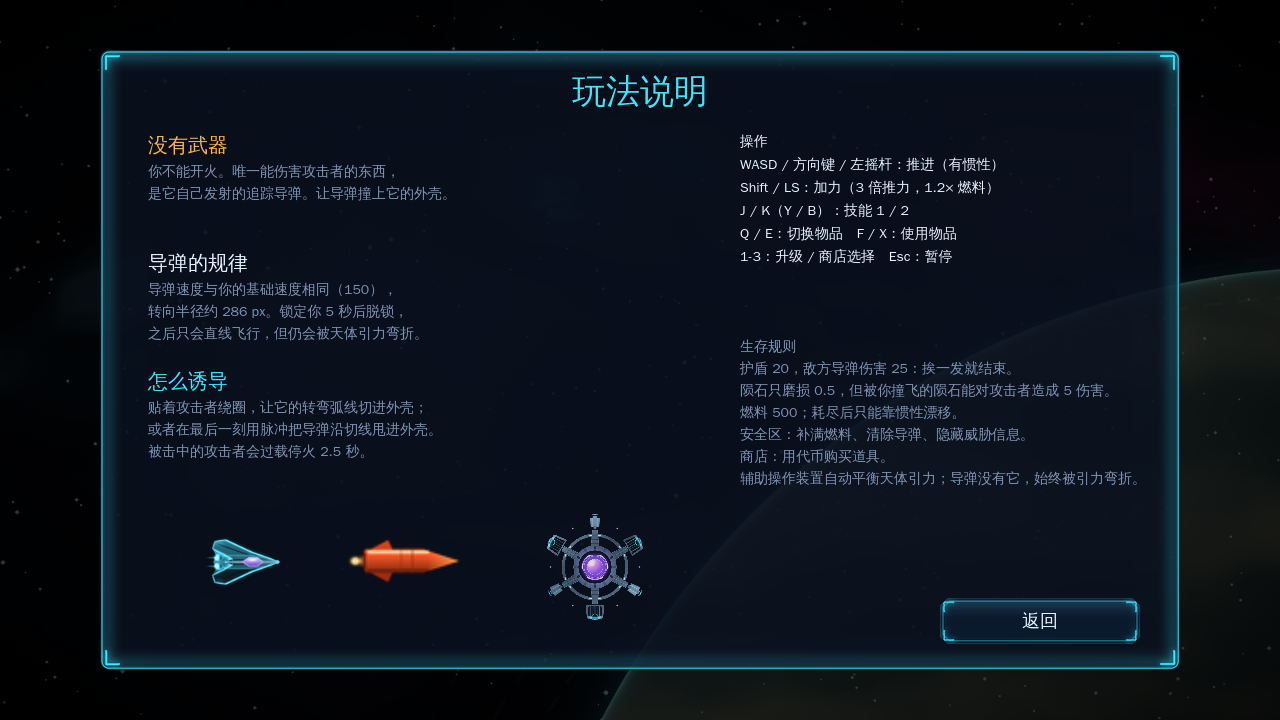
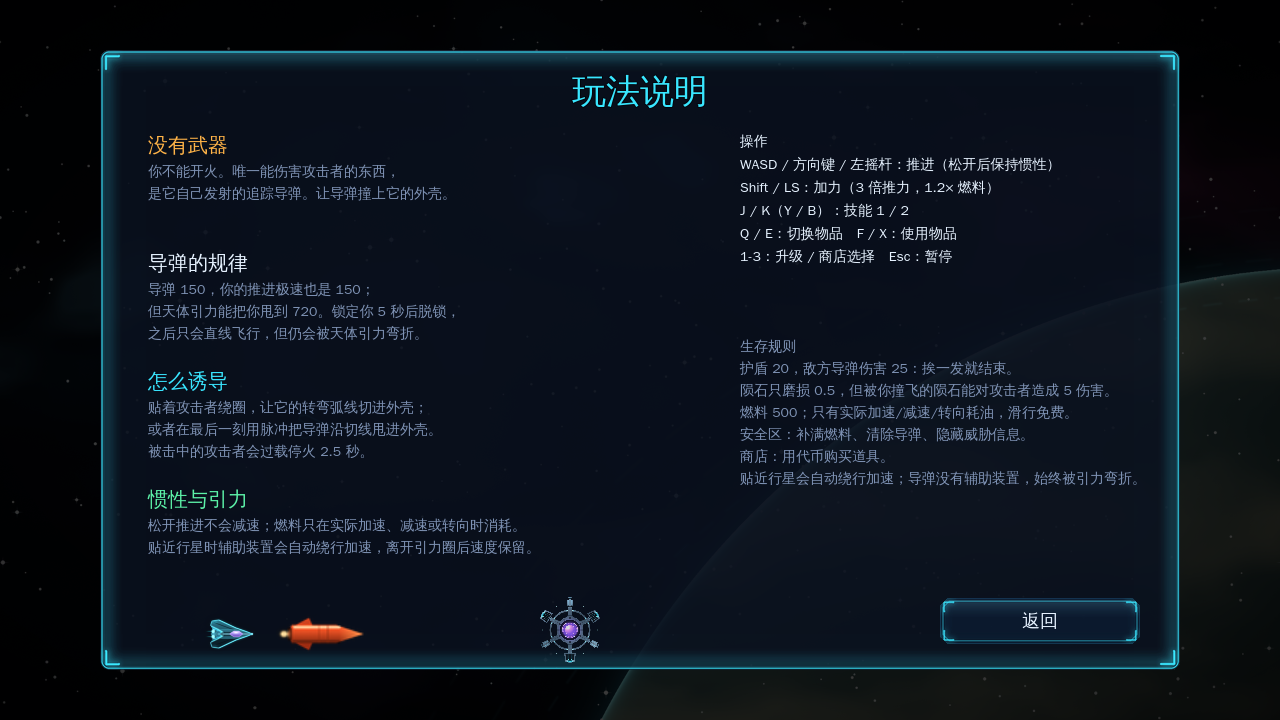
docs(1.0.5): 物理与生成规则、验证记录、截图与 OpenList 直链

diff --git a/README.md b/README.md
@@ -1,4 +1,4 @@
-# Escape Gravity · 1.0.4 发行版
+# Escape Gravity · 1.0.5 发行版
 
 > 2D 俯视角 · 物理驱动 · 无直接攻击的太空肉鸽
 >
@@ -14,6 +14,15 @@
 - 中文字体：WenQuanYi Zen Hei（随包分发，见许可）
 
 > **仓库状态**：本目录为本地 Git 仓库（`main`，未配置 remote，暂未发布）。`build/`、`dist/`、`keystore/` 与 `.godot/` 不入库；维护、构建与提交约定见 [`AGENTS.md`](AGENTS.md)。
+
+### 1.0.5 更新
+
+- **真惯性物理**：太空不再有阻力，松开推进后飞船保持当前速度；引擎只能把速度推到 **150**（加力 192），超过引擎极速后推进只用于转向/减速，惯性不会被压回。外部速度的安全上限为 **720**。
+- **燃料按实际 Δv 计**：只有真正改变速度（加速、减速、转向）时才耗油；到达极速后继续按住推进不耗燃料，滑行完全免费。
+- **环绕天体加速**：引力影响半径从 **2R 提高到 3R**，给切线掠过留出足够的弯折时间；贴近行星时辅助装置会沿切线自动绕行加速，离开引力圈后速度保留，可以被甩得比引擎极速快得多。HUD 新增速度读数（超过 192 变青、超过 400 变琥珀）。
+- **高速安全区停靠**：辅助装置的反推上限提高到 1400 px/s²；以 600~720 速度进入安全区时会自动刹停，停在 R280 圈内，而不是穿过去。只有明确把推进方向指向圈外时才会放手。
+- **生成间距修复**：安全区/商店按完整 R280 贴图、敌人按外壳半径、天体按表面 + 160px 留白做双向避让；路线预置的安全区/商店/敌人会为后续天体预留空间，天体也不会在玩家、安全区或敌人身上流式生成；敌人若被天体挤到会沿径向推出表面。
+- **路线落点更稳**：被天体挡住的安全区/商店/敌人会用 18 圈 × 24 方向的环形搜索重新落点，不再直接放弃在原来的错误位置。
 
 ### 1.0.4 更新
 
@@ -48,22 +57,24 @@
 
 | 文件 | 平台 | 大小 | SHA-256 |
 |---|---|---|---|
-| `dist/EscapeGravity-1.0.4-windows-x86_64.zip` | Windows 10/11 x64 | 57.4 MiB | `fea45b3f…1b66fc` |
-| `dist/EscapeGravity-1.0.4-android-arm64.apk` | Android 7.0+ arm64 | 47.3 MiB | `16cb937c…75af80` |
-| `dist/EscapeGravity-1.0.4-linux-x86_64.tar.gz` | Linux x64（附带） | 48.1 MiB | `a43c92a2…85ba8c` |
-| `build/windows/EscapeGravity.exe` | 未压缩的 Windows 单文件 | 125.9 MiB | `d57c7da4…ffd3f7` |
-| `build/android/EscapeGravity.apk` | 未重命名的 Android 包 | 47.3 MiB | `16cb937c…75af80` |
+| `dist/EscapeGravity-1.0.5-windows-x86_64.zip` | Windows 10/11 x64 | 57.4 MiB | `f7e9d666…ef357f4` |
+| `dist/EscapeGravity-1.0.5-android-arm64.apk` | Android 7.0+ arm64 | 47.3 MiB | `0cc82151…75d1d9` |
+| `dist/EscapeGravity-1.0.5-linux-x86_64.tar.gz` | Linux x64（附带） | 48.1 MiB | `9941b32f…5e8fc6` |
+| `build/windows/EscapeGravity.exe` | 未压缩的 Windows 单文件 | 125.9 MiB | `a59c5154…c91ef5` |
+| `build/android/EscapeGravity.apk` | 未重命名的 Android 包 | 47.3 MiB | `0cc82151…75d1d9` |
 | `docs/shots/*.png` | 由**导出包**实际运行的截图 | — | — |
 
 完整校验和：`dist/SHA256SUMS.txt`。
 
-> 下表是本次 1.0.4 重新构建的交付包，`build/` 与 `dist/` 均来自同一次构建。
+- Android 1.0.5 直链：[EscapeGravity-1.0.5-android-arm64.apk](https://files.thisisxd.top/d/EscapeGravity-1.0.5-android-arm64.apk)
+
+> 下表是本次 1.0.5 重新构建的交付包，`build/` 与 `dist/` 均来自同一次构建。
 
 Windows 包为单文件 exe（内嵌 PCK），解压即玩，无需安装。Android 包已用项目自带密钥签名（v2/v3），可直接侧载安装。
 
 本版不再提供 Web 试玩包；正式交付为 Windows / Android 原生构建。
 
-- Android 包名：`com.escapegravity.game`，versionCode 5，versionName 1.0.4
+- Android 包名：`com.escapegravity.game`，versionCode 6，versionName 1.0.5
 - minSdk 24 / targetSdk 36（Godot 4.7 模板），仅 arm64-v8a
 - Windows 构建未做商业代码签名：首次运行可能出现 SmartScreen 提示，选择“仍要运行”即可
 
@@ -130,10 +141,10 @@ Windows 包为单文件 exe（内嵌 PCK），解压即玩，无需安装。Andr
 
 | 文档条目 | 实现 |
 |---|---|
-| 惯性推进 / 极速 150 / 推力 380 / 阻力 0.22 | `src/ship.gd`：加速度积分 + 线性阻尼 + 硬上限；实测极速 150 |
+| 惯性推进 / 引擎极速 150 / 推力 380 / 太空无阻力 | `src/ship.gd`：加速度积分；松开推进保持速度；超过 150 后推进只能转向/减速；外部速度上限 720 |
 | 加力：3× 推力、1.28× 极速、槽 6.6s、0.7s 后回充、剩余 0.22 才能再启 | 全部实现；初始槽为旧 2.2s 的三倍；回充只看是否在加力，推进中同样回充；耗尽后需先松开加力键再点火；燃料 1.2×（4/s vs 4.8/s）；加力推力=1140 |
-| 引力：M=24e6×(r/290)²、内圈 0.85r 夹紧、影响半径 2r、外侧 15% 平滑 | `src/gravity_body.gd`；表面 285、内圈 395、2r 外为 0；对飞船、导弹、陨石生效；导弹锁定中同样受引力 |
-| 辅助操作装置自动平衡恒星引力 | `galaxy.gravity_at(pos, for_ship=true)` 仅在贴近恒星时把引力施加给飞船；导弹没有辅助装置 |
+| 引力：M=24e6×(r/290)²、内圈 0.85r 夹紧、影响半径 3r、外侧 15% 平滑 | `src/gravity_body.gd`；表面 285、内圈 395、3r 外为 0；对飞船、导弹、陨石生效；导弹锁定中同样受引力 |
+| 辅助操作装置平衡恒星引力、引导环绕天体 | `galaxy.gravity_at(pos, for_ship=true)` 仅在贴近恒星时把引力施加给飞船；导弹没有辅助装置 |
 | 敌人：视野外 240 / 内 18；未进屏隐藏、不进雷达/方位/血条；靠近 2100px 后主动逼近并开火 | `src/enemy.gd`；炮塔 R420/HP50，视野外 5s 齐射、视野内 1s，45% 单发，0.2s 间隔；位置按隐藏路线顺序取；未发现时以 1.5× 速度逼近，进屏淡入 0.35s |
 | 偷袭弹：未发现时从屏幕外绕弧切入，方向 72% 偏向敌人方位 ±57° | `enemy._fire_hidden`；屏幕边缘外 180~320px 生成、切线初速；单独上限 2 枚，不占 3 枚直射名额 |
 | 导弹：速度 150、转向 0.525 rad/s、屏幕内 5s 脱锁、脱锁后直线且全程受引力 | `src/missile.gd`；转向半径 ≈286px；锁定中引力可以压过转向 |
@@ -143,11 +154,11 @@ Windows 包为单文件 exe（内嵌 PCK），解压即玩，无需安装。Andr
 | 陨石：10s/颗、R17、110~210 速度、镜头外 900 进入、方向避开炮塔、受天体与飞船引力、0.5 伤害、撞飞后对敌人 5 伤害 | `src/meteor.gd` + `run`；撞飞船不会立刻消失，可继续飞行撞敌人 |
 | 物质：200/星域、吸取 190、小 1 XP / 大 3 XP、每 20 XP 升级 | `src/matter.gd`；初始与补充刷在未探索区，总数上限 280 |
 | 护盾 20 / 敌方导弹 25；陨石 0.5 | `src/ship.gd` + `run.hurt_ship` |
-| 安全区：进入前 R78 → 进入时扩张到 R280、46 px/s² 向心引力、回满燃料/清导弹/清陨石/隐藏雷达与威胁指示、离开后 10s 刷新 | `src/zone.gd` + `run._zone_checks`；进入瞬间触发半径即为 280，扩张动画只影响外观；间距/引力/燃料判定用 `clearance_radius()` |
+| 安全区：进入前 R78 → 进入时扩张到 R280、46 px/s² 向心引力、回满燃料/清导弹/清陨石/隐藏雷达与威胁指示、离开后 10s 刷新 | `src/zone.gd` + `run._zone_checks`；进入瞬间触发半径即为 280，扩张动画只影响外观；间距/引力/燃料判定用 `clearance_radius()`；高速进站由辅助装置以 1400 px/s² 刹停，圈内抵消天体引力 |
 | 安全区刷新在路线预置点 | `RunRoute.safe_at`：每个敌人之间一个；找不到路线时回退 `find_unexplored_point(700, 1875)` |
 | 商店：R280、不回燃料、代币交易 | `run._open_shop` / `buy_offer`；3 件商品，价格按稀有度；位置取路线预置点，离路线比安全区更远 |
 | 燃料耗尽：仍可惯性/引力移动；屏幕内有安全区则被吸入；否则 12s 后结束 | `run._check_fuel` + `assist_accel` |
-| 操作辅助装置：绕天体引导、商店/安全区停靠、燃料 10%、不改变朝向 | `run.assist_accel` |
+| 操作辅助装置：绕天体切线加速、商店/安全区停靠、燃料 0.4/s、不改变朝向 | `run.assist_accel`；环绕加速在 600 速度处淡出，安全区反推上限 1400 px/s² |
 | 碰撞：玩家不能进入天体/敌人、被弹飞、按速度 3~7 护盾磨损 | `ship.bounce_from` + `run`；0.35s 受击无敌帧避免连续扣血 |
 | 物品栏：基础 2、最多 5、满了要销毁一件 | `run.add_item` / `destroy_and_take` + HUD 销毁面板 |
 | 升级池：修复 25%/100%、燃料 25%/上限 +10/+20、物品栏、代币 1/2/3、加力槽 +10%、加力推力 +7%、道具、技能 | `src/defs.gd`；上限后对应卡不再出现 |
@@ -165,11 +176,11 @@ Windows 包为单文件 exe（内嵌 PCK），解压即玩，无需安装。Andr
 
 | 项 | 值 | 项 | 值 |
 |---|---|---|---|
-| 飞船极速 / 加速度 / 碰撞半径 | 150 / 380 / 40 | 导弹速度 / 转向 / 锁定 | 150 / 0.525 / 5s |
+| 飞船极速 / 加速度 / 碰撞半径 | 150（加力 192，外部上限 720）/ 380 / 40 | 导弹速度 / 转向 / 锁定 | 150 / 0.525 / 5s |
 | 加力推力 / 极速 / 槽 | 1140 / 192 / 6.6s | 导弹伤害（敌/我） | 25 / 25 |
-| 燃料上限 / 推进 / 加力 | 500 / 4/s / 4.8/s | 炮塔半径 / 血量 | 420 / 50 |
+| 燃料上限 / 推进 / 加力（按实际 Δv） | 500 / 4/s / 4.8/s | 炮塔半径 / 血量 | 420 / 50 |
 | 天体半径 / 表面引力 / 内圈 | 200~380 / 285 / 395 | 炮塔射速（外/内） | 5s / 1s |
-| 引力影响半径 | 2.0 × R | 过载时长 | 2.5s |
+| 引力影响半径 | 3.0 × R | 过载时长 | 2.5s |
 | 陨石间隔 / 伤害 / 半径 | 10s / 0.5 / 17 | 炮塔移动（外/内） | 240 / 18 |
 | 吸取半径 / XP | 190 / 20 每级 | 安全区（进入前→扩张）/ 牵引 | 78 → 280 / 46 |
 | 脉冲：冷却 / 燃料 / 半径 / 冲量 / 偏转 | 5s / 10 / 300 / 200 / ±15° | 巢：半径 / 血量 / 齐射 | 300 / 40 / 3 |
@@ -220,7 +231,7 @@ escape-gravity-release/
 │   ├── meteor.gd / matter.gd / zone.gd / decoy.gd / anchor.gd / fx.gd
 │   ├── assets.gd / audio.gd / store.gd / controls.gd
 │   ├── backdrop.gd           # 视差星云/星点
-│   └── selftest.gd           # 104 项无头断言 + 机器人可玩性验证
+│   └── selftest.gd           # 125 项无头断言 + 机器人可玩性验证
 ├── assets/                   # world / ui / audio / fonts
 ├── tools/                    # 素材生成、后期、构建、打包
 ├── docs/                     # ART.md / DESIGN_MAP.md / QA.md / 资产清单 / 截图
@@ -240,14 +251,14 @@ escape-gravity-release/
 
 ## 5. 验证
 
-### 5.1 无头断言（104/104 通过）
+### 5.1 无头断言（125/125 通过）
 
 ```bash
 godot --headless --path . -- --selftest
-# RESULT: 104 checks, 0 failed
+# RESULT: 125 checks, 0 failed
 ```
 
-覆盖：极速 150 / 加力 3× 与 192 / 燃料 4·8/s / 加力槽 6.6s（旧 2.2s 的三倍）与推进中回充 / 引力 285·395·2R 截止 /
+覆盖：太空无阻力与惯性保持 / 引擎极速 150、加力 3× 与 192、外部上限 720 / 燃料按实际 Δv（滑行免费，到极速后按住推进不耗油）/ 加力槽 6.6s 与推进中回充 / 引力 285·395·3R 截止 /
 辅助装置平衡恒星引力 / 锁定中的导弹仍受引力弯折 /
 导弹 150·0.525·5s 脱锁 / 命中 25 与过载 / 陨石 0.5 与撞飞 5 / 物质 190 与 1·3 XP / 20 XP 升级 /
 安全区 78→280 扩张·补满·清弹·隐藏·10s 刷新 / 商店 3 件且不回燃料 / 物品栏 2→5 与满栏销毁 / 脉冲 10 燃料·200 冲量·5s CD·按移动方向左右偏转 /
@@ -261,18 +272,20 @@ godot --headless --path . -- --selftest
 
 | 条件 | 结果 |
 |---|---|
-| 无敌机器人（排除死亡干扰） | **2/3 次击毁炮塔**，用时 29.4~29.9s；另一次 60s 内未击毁（1 次命中） |
-| 普通机器人（20 护盾，一次死亡即结束） | **1/3 次击毁**，用时 31.8s；另一次 6.8s 被偷袭弹击穿，一次 60s 内未击毁 |
+| 无敌机器人（排除死亡干扰） | **3/3 次击毁炮塔**，用时 11.4~56.6s（新物理下绕圈更慢，但都能完成诱导） |
+| 普通机器人（20 护盾，一次死亡即结束） | **1/3 次击毁**，seed 202 用时 10.9s；另外两次分别在 8.5s / 21.5s 被导弹击穿 |
+
+> 机器人测试在无天体干扰的空场地进行，只验证“绕圈诱导 + 贴脸脉冲”这一核心循环；天体引力与环绕加速由独立断言覆盖。
 
 结论：**“只能靠诱导导弹撞敌人”的核心循环是可达成的**；同时也说明本作确实是“一击结束”的高压难度（文档要求）。
 
 ### 5.3 导出包验证
 
-> 本次 1.0.4 重新导出了 Linux / Windows / Android 包并重打了 `dist/`，下方验证均针对这批产物。
+> 本次 1.0.5 重新导出了 Linux / Windows / Android 包并重打了 `dist/`，下方验证均针对这批产物。
 
 - Linux 导出包在 `Xvfb + llvmpipe` 下真实运行并重新生成全部 11 张截图（不是编辑器截图），中文字体、脚本、贴图、音频均从 PCK 加载。
 - Windows 产物：`PE32+ executable (GUI), x86-64`，尾部 `GDPC` 内嵌包标记，单文件无外部依赖。
-- Android：`apksigner verify` 通过（v2 + v3 签名）；`aapt2 dump badging` 显示 `com.escapegravity.game`、1.0.4（versionCode 5）、
+- Android：`apksigner verify` 通过（v2 + v3 签名）；`aapt2 dump badging` 显示 `com.escapegravity.game`、1.0.5（versionCode 6）、
   minSdk 24、targetSdk 36、`native-code: arm64-v8a`、landscape、无危险权限；APK 内含全部贴图/字体/音频/脚本。
 
 ### 5.4 界面

diff --git a/docs/DESIGN_MAP.md b/docs/DESIGN_MAP.md
@@ -19,14 +19,14 @@
 
 | 项 | 文档 | 实现 |
 |---|---|---|
-| 移动 | 模拟推进器、有惯性；PC 手柄 L/WASD、移动端摇杆 | `ship.gd`：加速度积分 + 阻尼 0.22 + 上限；输入 = 键盘/左摇杆/触屏摇杆 |
-| 最高速 | 150 | 硬上限 150；加力时 192 |
+| 移动 | 模拟推进器、有惯性；PC 手柄 L/WASD、移动端摇杆 | `ship.gd`：加速度积分，**太空无阻力**；松开推进保持速度；输入 = 键盘/左摇杆/触屏摇杆 |
+| 最高速 | 150 | 引擎可加速到 150，加力 192；超过后推进只能转向/减速，惯性不被压回；外部速度安全上限 720 |
 | 推力 | 380 | `SHIP_ACCEL=380` |
 | 飞船/导弹碰撞半径 | 13 / 7（文档） | 40 / 12：按 `ship.png`（可见 111×82）与 `missile.png`（64×28）实际贴图放大；碰撞体与贴图一致 |
 | 加力 | 3× 推力（1140）、1.28× 极速（192）、槽 6.6s（初始 2.2s 的三倍）、0.7s 后回复、剩余 0.22 才可再启、1.2× 燃料 | `ship.step`：`boost_mult`（升级 ×1.07）、`boost_cap`（升级 ×1.1）、回充 1.6/s；只要不在加力就回充（推进中同样），耗尽后需先松开再点火，迟滞 0.22 |
-| 燃料 | 上限 240；推进 4/s，加力 8/s（文档） | 发行调整为上限 500；推进 4/s，加力 4.8/s（1.2×） |
-| 引力 | 半径 200~380；M=24e6×(r/290)²；内圈 0.85r 夹紧 395；影响 2r；外侧 15% 平滑 | `gravity_body.gd`；影响半径内计算，外为 0；对飞船/导弹/陨石生效；导弹锁定中也持续受引力（`MISSILE_GRAVITY_SCALE=0.6`） |
-| 天体生成距离 | 1500~3400，出生点在影响圈外 | `galaxy.gd` 区块生成，`_spot_clear` 保证与已有天体 400~900px 间距；初始固定 3 颗风景行星 |
+| 燃料 | 上限 240；推进 4/s，加力 8/s（文档） | 发行调整为上限 500；推进 4/s、加力 4.8/s（1.2×），均按本帧实际 Δv 计；到极速后按住推进不耗油，滑行免费 |
+| 引力 | 半径 200~380；M=24e6×(r/290)²；内圈 0.85r 夹紧 395；影响 3r；外侧 15% 平滑 | `gravity_body.gd`；影响半径内计算，外为 0；对飞船/导弹/陨石生效；导弹锁定中也持续受引力（`MISSILE_GRAVITY_SCALE=0.6`）；3r 引力圈让切线掠过有时间弯成环绕 |
+| 天体生成距离 | 1500~3400，出生点在影响圈外 | `galaxy.gd` 区块生成，`body_fits()` 保证与已有天体 260~600px 间距，并避开玩家、安全区/商店/敌人与全部路线预置节点；初始固定 3 颗风景行星 |
 | 物品栏/技能槽 | 基础 2 格、上限 5；技能 2 槽 | `item_slots`、`skills`；升级卡控制扩容 |
 | 移动端操作 | 摇杆 + 按钮 | `ui.gd` 触屏层：摇杆、加力、2 技能、物品格、暂停 |
 
@@ -96,10 +96,10 @@
 
 | 项 | 文档 | 实现 |
 |---|---|---|
-| 安全区半径/牵引 | 280 / 46 px/s² | `zone.gd`：出生时触发半径 `ZONE_ENTRY_RADIUS=78`（只比飞船略大），玩家到中心时 `set_entered` 同一帧把 `radius` 设为 280，并用 0.62s 的 BACK 缓动 + 冲击波贴图播放扩张；无输入时向心牵引（不再限燃料 0） |
+| 安全区半径/牵引 | 280 / 46 px/s² | `zone.gd`：出生时触发半径 `ZONE_ENTRY_RADIUS=78`（只比飞船略大），玩家到中心时 `set_entered` 同一帧把 `radius` 设为 280，并用 0.62s 的 BACK 缓动 + 冲击波贴图播放扩张；无输入时向心牵引（不再限燃料 0）；进入后 `gravity_ship_at` 返回零，避免 3R 天体引力把握停的飞船拖出去 |
 | 进入 | 圈 → 展开、回满燃料、导弹/陨石消失、敌人停火退出、屏蔽信息 | `_enter_safe`；扩张瞬间即视为进入，玩家不会在动画期间飞出去；敌人间距与燃料判定用 `clearance_radius()`（完整 280） |
 | 离开 | 消失，10s 后刷新下一个 | `_leave_safe`；`safe_respawn_timer=10` |
-| 刷新位置 | 路线预置点；每个敌人之间一个；直线距离 ≤ 50 燃料（≈1875px） | `RunRoute.safe_at`（段内 0.35、侧偏 260~380px）；路线缺失时才回退 `find_unexplored_point(700,1875)` |
+| 刷新位置 | 路线预置点；每个敌人之间一个；刷新带 ≈1875px（约 12.5s 满推力预算） | `RunRoute.safe_at`（首段 0.35、之后 0.50；侧偏 470~600px）；路线缺失时才回退 `find_unexplored_point(700,1875)` |
 | 商店 | R280、不回燃料、代币交易；离路线比安全区更远 | `RunRoute.shop_at`（段内 0.72、侧偏 1200~1600px）；3 件商品，按稀有度 2~5 代币；离开后 26s 刷新 |
 | 燃料耗尽 | 仍可惯性/引力；屏幕内有安全区被吸入；否则结束 | `_check_fuel`：无安全区在屏内且无燃料道具时 12s 结束；`assist_accel` 把无动力飞船拉向安全区 |
 
@@ -107,8 +107,8 @@
 
 | 文档 | 实现 |
 |---|---|
-| 引导不撞天体（不含导弹/陨石）；进入绕天体匀速圆周；玩家有远离输入立即退出 | `run.assist_accel`：距表面 <320 且内向速度 >45、且输入不朝外时，施加切向 230；不改变 facing |
-| 引导在商店/安全区停靠 | 在安全区/商店内、无输入时反向减速至 0 |
+| 引导不撞天体（不含导弹/陨石）；进入绕天体匀速圆周；玩家有远离输入立即退出 | `run.assist_accel`：距表面 <320 且内向速度 >45、且输入不朝外时，施加切向 `SHIP_ORBIT_ACCEL=230 × (1-speed/600)`；不改变 facing；离开引力圈后速度保留 |
+| 引导在商店/安全区停靠 | 在安全区内自动反推，上限 `SHIP_SAFE_BRAKE=1400 px/s²`，600~720 速度进入也能停在 R280 内；只有推进方向明确指向圈外时才放手；进圈后抵消天体引力 |
 | 不改变飞船朝向 | 辅助只加加速度，不写 `ship.facing` |
 | 辅助指令燃料 10% | `_assist_fuel`：0.4/s（正常推进 4/s 的 10%） |
 | 辅助操作装置自动平衡恒星引力 | `gravity_ship_at` 对恒星只在 1.12R 内生效；导弹没有辅助装置，始终受全量引力 |
@@ -120,8 +120,8 @@
 | 无限地图、算法生成星系、行星非孤立 | 7800px 星系统 + 2048px 区块补行星；加载半径 3 区块、每个空区块保底 1 颗天体；视差背景按相机锚定，任意坐标不消失 |
 | 地图生成顺序：星系 → 物质 → 路线 → 区域/敌人落位 | `galaxy.start` 铺星系与区块；`run._initial_spawn` 填物质；`RunRoute` 预生成路线与节点；安全区/商店/敌人按序取点 |
 | 隐藏行进路线 | `src/route.gd`：初始 12 个遭遇点、滚动预生成；每段最多转 31.5° 且必须沿主方向前进；不创建任何可见节点 |
-| 每段路线经过天体 | `route.gd` 在段中点旁 380~480px 放天体锚点；`galaxy._generate_chunk` 在该区块补一颗半径 260~340 的行星（尽量在 2R 引力圈内） |
-| 两个敌人之间必有安全区 | 每个 encounter 的 `safe` 落在上一敌人→本敌人的 0.35 处、侧偏 260~380px |
+| 每段路线经过天体 | `route.gd` 在段中点旁 380~480px 放天体锚点；`galaxy._generate_chunk` 在该区块补一颗半径 260~340 的行星（尽量在 3R 引力圈内） |
+| 两个敌人之间必有安全区 | 每个 encounter 的 `safe` 落在上一敌人→本敌人的 0.50 处（首段 0.35）、侧偏 470~600px；刷新时再按完整 R280、敌人外壳与天体间距推开 |
 | 商店比安全区更远 | 商店落在段内 0.72、侧偏 1200~1600px；相对玩家与相对路线的距离都大于同段安全区 |
 | 恒星引力仅贴近生效 | 对飞船 1.12R；导弹/陨石全量 |
 | 击败后不倒计时传送，而是安全时间后刷新 | `safe_timer=8`，HUD 显示倒计时；结束后按路线顺序刷新下一敌人 |

diff --git a/docs/QA.md b/docs/QA.md
@@ -1,6 +1,6 @@
 # QA / 验证记录
 
-日期：2026-11-03 · 版本：1.0.4 · 引擎：Godot 4.7.2 stable
+日期：2026-11-04 · 版本：1.0.5 · 引擎：Godot 4.7.2 stable
 环境：Linux x86_64 · Godot headless + Xvfb/llvmpipe · JDK 17 (Temurin 17.0.21) · Android SDK build-tools 35 / platform 35
 
 ---
@@ -11,23 +11,25 @@
 godot --headless --path . -- --selftest
 ```
 
-完整输出：`docs/selftest_output.txt`（104 项断言 + 机器人明细）。
+完整输出：`docs/selftest_output.txt`（125 项断言 + 机器人明细）。
 
 ```
-RESULT: 104 checks, 0 failed
+RESULT: 125 checks, 0 failed
 ```
 
 **导出包内自测**（同一套脚本，从内嵌 PCK 运行）：
 
 ```bash
 ./build/linux/EscapeGravity.x86_64 --headless -- --selftest
-# RESULT: 104 checks, 0 failed
+# RESULT: 125 checks, 0 failed
 ```
 
 覆盖面：
 
-- 物理：极速 150、加力 3× 推力 / 192 极速、燃料上限 500 / 推进 4/s / 加力 4.8/s、初始加力槽 6.6s（旧 2.2s 的三倍）与 0.7s 后回充（推进中同样回充，耗尽需先松开）、碰撞半径 40 / 12 / 护盾 20
-- 引力：表面 285、内圈 395、2R 截止、辅助操作装置平衡恒星引力、锁定中的导弹仍受引力弯折（0.6×）
+- 物理：太空无阻力（松开推进 2 秒仍保持速度）、引擎极速 150（超过后推进不把惯性压回）、加力 3× 推力 / 192 极速、燃料按实际 Δv 计（到极速后按住推进不耗油，滑行免费）、加力槽 6.6s 与 0.7s 后回充（推进中同样回充，耗尽需先松开）、碰撞半径 40 / 12 / 护盾 20
+- 环绕加速：1.9R 切线进入行星引力圈，20 秒内峰值速度 >250、离开后仍 >180；深空滑行 300 速度 2 秒不衰减、不耗油
+- 安全区停靠：以 600 速度进入 R78 触发圈，扩张到 R280 后辅助装置刹停，最终速度 <20 且仍在圈内
+- 引力：表面 285、内圈 395、3R 截止、辅助操作装置平衡恒星引力、锁定中的导弹仍受引力弯折（0.6×）
 - 导弹：速度/转向率/5s 脱锁/半径、命中 25、过载 2.5s、两发摧毁 50 血炮塔
 - 陨石：0.5 磨损、撞飞后对敌 5、受飞船引力
 - 物质：大 3 XP、超 190 不吸、150 内被吸、20 XP/级
@@ -37,6 +39,7 @@ RESULT: 104 checks, 0 failed
 - 技能：脉冲 10 燃料 / 200 冲量 / 脱锁 / 5s CD / 按移动方向左右偏转（静止按面向）；诱饵抵达脱锁；干扰弹偏转
 - 死亡：燃料耗尽 12s 判负、导弹 25 击穿 20 护盾、复活币恢复 8
 - 地图：隐藏路线不回头（每段沿主方向前进）、每段经过天体引力圈、两个敌人之间必有安全区、安全区离两侧敌人≥1150 且刷新时避开当前敌人、商店比安全区离路线更远；初始安全区/商店/敌人按路线落位；敌人按路线顺序刷新
+- 生成间距：天体压住安全区/商店/敌人时环形搜索重新落点（安全区按 R280+160、敌人按外壳+160）；新天体不会生成在安全区/玩家/路线预置节点上；敌人被天体挤到会沿径向推出表面
 - 入场：视野内导弹从炮塔外壳（R+14）出膛；已发现的敌人在视野外仍为侧向 820px；未发现时走屏幕外偷袭弧线
 - 流式：距原点 120000px 加载区块仍有 ≥3 个天体
 
@@ -44,16 +47,17 @@ RESULT: 104 checks, 0 failed
 
 | 尝试 | 轨道半径 | 无敌 | 结果 | 命中 | 用时 |
 |---|---|---|---|---|---|
-| seed 200 | 700 | 否 | 未击毁（60s 上限，撞天体） | 0 | 60.0s |
-| seed 300 | 700 | 是 | **击毁** | 2 | 29.9s |
-| seed 201 | 790 | 否 | 失败（被偷袭弹击穿） | 0 | 6.8s |
-| seed 301 | 790 | 是 | **击毁** | 2 | 29.4s |
-| seed 202 | 880 | 否 | **击毁** | 2 | 31.8s |
-| seed 302 | 880 | 是 | 未击毁（60s 上限，1 次命中） | 1 | 60.0s |
+| seed 200 | 700 | 否 | 失败（被导弹击穿） | 0 | 21.5s |
+| seed 300 | 700 | 是 | **击毁** | 2 | 56.6s |
+| seed 201 | 790 | 否 | 失败（被导弹击穿） | 0 | 8.5s |
+| seed 301 | 790 | 是 | **击毁** | 2 | 22.9s |
+| seed 202 | 880 | 否 | **击毁** | 2 | 10.9s |
+| seed 302 | 880 | 是 | **击毁** | 2 | 11.4s |
 
-- 无敌机器人：**2/3 击毁**，证明“诱导导弹撞敌人”的核心循环成立。
-- 普通机器人：1/3 击毁；一次被未发现阶段的偷袭弹击穿。它只会“绕圈 + 直射导弹贴脸时脉冲”，不会用加力脱离、干扰弹、诱饵、安全区；人类有更多手段。
-- 结论：机制可达成；未发现阶段的偷袭火力提高了压力，但没有破坏诱导循环。
+- 无敌机器人：**3/3 击毁**，证明“诱导导弹撞敌人”的核心循环成立。
+- 普通机器人：1/3 击毁；另外两次被导弹击穿。它只会“绕圈 + 直射导弹贴脸时脉冲”，不会用加力脱离、干扰弹、诱饵、安全区；人类有更多手段。
+- 机器人测试在无天体干扰的空场地运行（`run.no_stream=true` + 清空天体），只验证诱导循环；天体引力、环绕加速与高速停靠由独立断言覆盖。
+- 结论：机制可达成；未发现阶段的偷袭火力与新惯性一起提高了操作压力，但没有破坏诱导循环。
 
 ---
 
@@ -70,7 +74,7 @@ xvfb-run -a -s "-screen 0 1280x720x24" \
 
 - 退出码 0；11 张截图全部生成（**由导出包运行产生，不是编辑器**），已复制到 `docs/shots/`。
 - 标题、中文字体、贴图、音频、脚本均从内嵌 PCK 加载；无缺失贴图警告。
-- `build/linux/EscapeGravity.x86_64` = 96,340,400 bytes，ELF x86-64。
+- `build/linux/EscapeGravity.x86_64` = 96,346,880 bytes，ELF x86-64。
 - 触屏 20:9 截图另用 `--resolution 2400x1080 -- --touch --shots=...` 生成，取 `04_battle` 作为 `docs/shots/12_touch.png`。
 
 ### 2.2 Windows
@@ -81,7 +85,7 @@ file build/windows/EscapeGravity.exe
 python3 -c "d=open(...).read(); print(b'GDPC' in d[-4096:])"   # True
 ```
 
-- 单文件、内嵌 PCK，无外部依赖；132,024,448 bytes。
+- 单文件、内嵌 PCK，无外部依赖；132,030,928 bytes。
 - 未做商业代码签名（没有证书），首次运行会有 SmartScreen 提示。
 
 ### 2.3 Android
@@ -92,7 +96,7 @@ apksigner verify --verbose --print-certs build/android/EscapeGravity.apk
 ```
 
 ```
-package: name='com.escapegravity.game' versionCode='5' versionName='1.0.4'
+package: name='com.escapegravity.game' versionCode='6' versionName='1.0.5'
 minSdkVersion:'24'
 targetSdkVersion:'36'
 native-code: 'arm64-v8a'
@@ -105,9 +109,16 @@ Signer #1 certificate DN: CN=Escape Gravity, OU=Games, O=Escape Gravity, L=Shang
 Signer #1 certificate SHA-256: ddd8a610132d862301c8987f18f545a6eefdf58f0617547d7fad3cec0113f5ff
 ```
 
-- APK：49,550,584 bytes；含全部 `assets/`（贴图、字体、WAV、脚本 `.gdc`、场景）。
+- APK：49,558,776 bytes；含全部 `assets/`（贴图、字体、WAV、脚本 `.gdc`、场景）。
 - 权限：无危险权限（只有 Godot/模板默认项）。
 - 未在真机运行（本机无 Android 设备）；静态检查 + 签名验证通过，Linux 导出包已验证同一 PCK 的运行时行为。
+
+### 2.4 OpenList 分发
+
+- 已上传 `dist/EscapeGravity-1.0.5-android-arm64.apk` 到 NAS 的 `/vol1/1000/MyFiles/Public/`。
+- 远端大小 49,558,776 bytes、SHA-256 `0cc82151…75d1d9`，与本地一致。
+- 直链 HEAD 返回 `200 application/vnd.android.package-archive`，`content-length=49558776`：
+  <https://files.thisisxd.top/d/EscapeGravity-1.0.5-android-arm64.apk>
 
 ---
 

diff --git a/AGENTS.md b/AGENTS.md
@@ -6,7 +6,7 @@
 
 《Escape Gravity》是一款 2D 俯视角、物理驱动、**没有直接攻击**的太空肉鸽。玩家只能推进、加力、释放技能，靠诱导敌人自己的追踪导弹撞上敌人来造成伤害。
 
-- 当前版本：**1.0.4**
+- 当前版本：**1.0.5**
 - 引擎：**Godot 4.7.2 stable**，GL Compatibility 渲染器
 - 逻辑分辨率：**1280×720**，`canvas_items` 拉伸 + `expand` 适配宽屏/刘海屏
 - 目标平台：**Windows x86_64**、**Android arm64-v8a（横屏）**
@@ -88,16 +88,20 @@ escape-gravity-release/
 
 ## 关键玩法不变量
 
-这些行为是 1.0.4 修复后、并叠加隐藏路线/导弹引力改动的基线，别无意改回去：
+这些行为是 1.0.5 物理/生成修复后的基线，别无意改回去：
 
 - **导弹入场**：敌人在视野内时，从炮塔最近的三炮口之一 / 导弹巢前向口、`R+14` 处出膛；被发现的敌人在视野外仍按设计文档从玩家侧向 **820px** 进入。锁定期导弹不与来源敌人碰撞，避免刚出膛自爆。
 - **导弹引力**：锁定中与脱锁后都持续受天体引力（`MISSILE_GRAVITY_SCALE=0.6`）；引力强于转向能力时会把导弹拉离拦截线。只有玩家的辅助装置会平衡恒星引力，别把导弹也豁免。
 - **敌人刷新与发现**：按 `RunRoute` 预生成顺序取点（首段 1900~2400，之后 2100~2700）；两个敌人位置之间必有一个安全区，商店比安全区离路线更远。路线只用于布局、不渲染；不要改回随机方向刷新。敌人未进入玩家屏幕前不可见、不进雷达/方位/血条；玩家进入 `ENEMY_AGGRO_RANGE=2100` 后以 `1.5×` 速度逼近，贴图进入屏幕的同一帧才算 `discovered`。
 - **未发现也会开火**：`enemy._fire_hidden` 在屏幕边缘外 180~320px 生成偷袭弹，切线初速让它绕弧切入；72% 的方向落在敌人方位 ±57° 内，其余全随机。偷袭弹 `sneak=true`，单独上限 `ENEMY_HIDDEN_MAX=2`，且**不占**正常 3 枚直射名额。别用 `locked_missile_count()` 把它们算进去，否则会挤掉正面齐射、破坏诱导循环。
-- **安全区与敌人保持间距**：安全区预置在相邻两段敌人的中点（`SAFE_T=0.50`，首段 `SAFE_FIRST_T=0.35`），横向偏移 470~600，圆心离两侧敌人预置点 ≥1150；刷新时 `_clear_zone_of_enemies` 会按 `ZONE_ENEMY_CLEAR=520` 推开正在交战的敌人，敌人刷新校验同一间距。别再把安全区挪回贴着上一场战斗的位置。安全区出生时只有 `ZONE_ENTRY_RADIUS=78`，但所有间距/引力/燃料判定都用 `clearance_radius()`（恒为完整 280）；玩家到中心才扩张，扩张同一帧把 `radius` 设为 280，动画只影响外观。
+- **安全区与敌人保持间距**：安全区预置在相邻两段敌人的中点（`SAFE_T=0.50`，首段 `SAFE_FIRST_T=0.35`），横向偏移 470~600，圆心离两侧敌人预置点 ≥1150；刷新时 `_clear_zone_of_enemies` 会按 `ZONE_ENEMY_CLEAR=520` 推开正在交战的敌人，敌人刷新校验同一间距。别再把安全区挪回贴着上一场战斗的位置。安全区出生时只有 `ZONE_ENTRY_RADIUS=78`，但所有间距/引力/燃料判定都用 `clearance_radius()`（恒为完整 280）；玩家到中心才扩张，扩张同一帧把 `radius` 设为 280，动画只影响外观。安全区内 `gravity_ship_at` 返回零（station-keeping），否则 3R 引力圈会把握停的飞船拖出去。
 - **无限地图**：`Backdrop._process` 必须用相机中心 `c` 锚定图层；删掉 `c` 项会导致离开初始区块后背景消失。`Galaxy.LOAD_RADIUS=3`、`MAX_BODIES=90`，空区块保底一颗天体；`Galaxy._generate_chunk` 会为落在该区块的路线段补一颗行星；物质每 2 秒按飞船周边 3400px 数量补充，5200px 外回收。
 - **触屏右侧控制列**：底部加力 150px → 其上技能 92×2 → 再上物品栏 → 物品提示；代币读数在雷达下方。方位标记重叠时沿屏幕边缘错开。
-- **平衡**：初始燃料 **500**；推进 4/s；加力 **4.8/s（1.2×）**，3× 推力，极速 192，初始槽 **6.6s**；护盾 20。
+- **真惯性**：太空无阻力（`SHIP_DRAG=0`），松开推进保持速度；`SHIP_MAX_SPEED=150` 只是引擎可加速到的上限，超过后推进只用于转向/减速，不能把惯性压回；外部速度安全上限 `SHIP_SPEED_HARD=720`。别把全局硬上限加回 150。
+- **燃料按实际 Δv**：`ship.step` 只按本帧真正改变的速度量扣油；到极速后按住推进不耗油，滑行免费。加力槽同理，只有实际加速才消耗。
+- **环绕加速**：`BODY_GRAVITY_RANGE=3`（原 2）；`assist_accel` 在贴体 320px 内沿切线加速，速度 600 处淡出；离开引力圈后速度保留。安全区停靠反推上限 `SHIP_SAFE_BRAKE=1400`，以 600~720 进站要能在 R280 内停住；只有明确朝圈外推进时才放手。
+- **天体与内容双向避让**：新天体落点用 `Galaxy.body_fits()` 检查已加载天体、当前飞船、安全区/商店/敌人和**全部路线预置节点**；安全区/商店/敌人刷新用 `_clear_body_point()` 的 18 圈 × 24 方向环形搜索，安全区按完整 R280、敌人按外壳、天体按表面 + `BODY_CONTENT_MARGIN=160` 留白。别再把 `_clear_body_point` 的 clearance 传成 90/120。
+- **平衡**：初始燃料 **500**；推进 4/s、加力 **4.8/s（1.2×）**（均按实际 Δv），3× 推力，引擎极速 150 / 加力 192，初始槽 **6.6s**；护盾 20。
 - **状态机**：`PLAYING / LEVELUP / SHOP / DESTROY / DEAD`；暂停由 `main.gd` 控制，`run.paused` 冻结模拟。
 - **存档**：`user://escape_gravity.cfg` 只保存设置与历史记录；没有中途存档 / 云存档 / meta 解锁。
 
@@ -141,7 +145,7 @@ python3 tools/make_dist.py
 
 改动运行逻辑后，至少完成：
 
-1. `RESULT: 104 checks, 0 failed`；导出包内再跑一次 `./build/linux/EscapeGravity.x86_64 --headless -- --selftest`。
+1. `RESULT: 125 checks, 0 failed`；导出包内再跑一次 `./build/linux/EscapeGravity.x86_64 --headless -- --selftest`。
 2. 用导出包重新生成截图；桌面 11 张 + 移动端 20:9 一张，检查标题居中、触屏按钮不重叠。
 3. 无运行时绘制审计（应只有 `RenderingServer.frame_post_draw` 一条命中）：
    ```bash
@@ -167,7 +171,7 @@ python3 tools/make_dist.py
 - 提交信息用中文或英文均可，建议 `type(scope): subject`，例如：
   - `fix(mobile): 技能键移到右侧并放大`
   - `fix(world): 背景改为相机锚定`
-  - `docs: 更新 1.0.4 验证记录`
+  - `docs: 更新 1.0.5 验证记录`
 - 一个提交只做一类改动；不要把一个功能、格式化、文档混在一起。
 - 提交前检查：
   ```bash

diff --git a/docs/ART.md b/docs/ART.md
@@ -56,7 +56,7 @@ assets/
 | `safezone.png` | 640×640 | 整张贴图按完整半径 `R/280` 缩放；`Zone` 节点出生时整体 `scale=78/280`，玩家进入中心后缓动到 `1.0`（R=280），环半径即扩张后的碰撞/效果半径 |
 | `safezone_fill.png` | 640×640 | 同上，叠加，进入后变亮；扩张时复用 `safezone.png` 再叠一层做冲击波 |
 | `shop_station.png` | 640×640 | `scale = R/250`（R=280） |
-| `gravity_ring.png` | 512×512 | `scale = influence/250`；天体影响边界（2R） |
+| `gravity_ring.png` | 512×512 | `scale = influence/250`；天体影响边界（3R） |
 | `decoy.png` | 64×64 | 1:1，诱饵/信标 |
 | `warp_ring.png` | 1024×1024 | 叠加，技能/击杀/区域效果放大淡出 |
 | `shockwave.png` | 512×512 | 叠加，爆炸冲击波 / 摇杆外环 |
